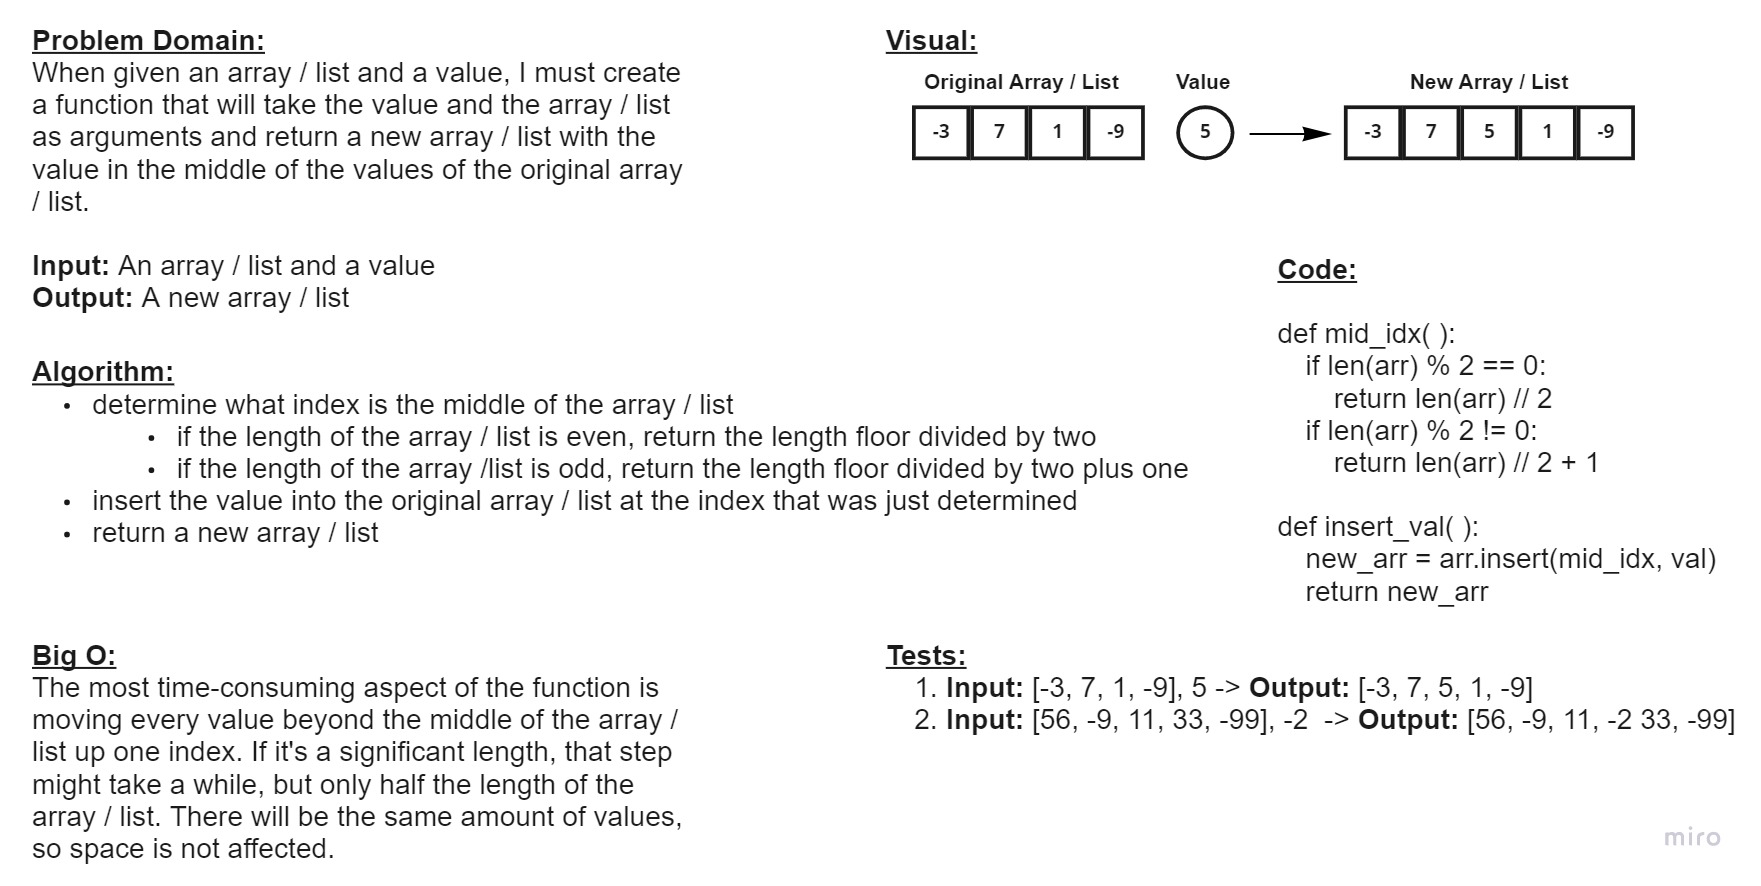
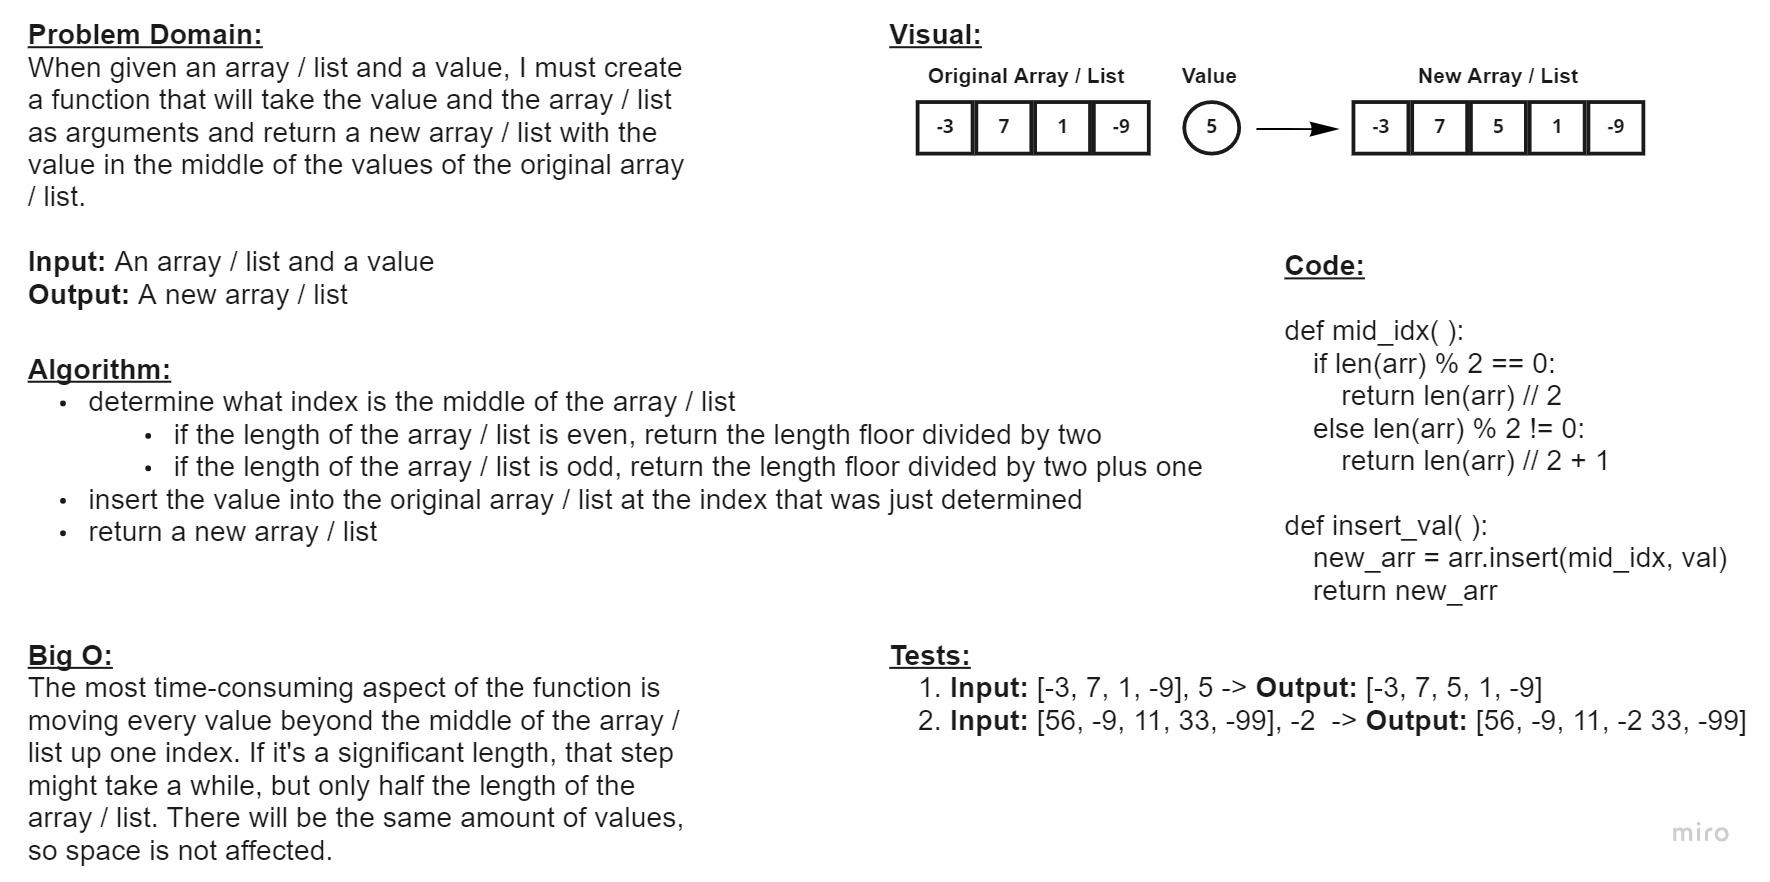
Fixing some formatting stuff and reuploading a whiteboard image.

diff --git a/python/docs/array_insert_shift/README.md b/python/docs/array_insert_shift/README.md
@@ -7,6 +7,4 @@
 ## Approach & Efficiency
 * I decided to find the middle index of the original array / list by first determining if its length was an odd or even number. If it was an odd number, I had to add one to make it work with the new array / list. Then I inserted the value into the original array / list using the number I previously determined as the index the value will be inserted at.
 
-<br/>
-
-The Big O time will depend on the size of the array / list. It could take long, but it is only half the length of the array / list, since each value after the middle index needs to be moved up one index. The space will not increase because the number of values are the same before and after.
+* The Big O time will depend on the size of the array / list. It could take long, but it is only half the length of the array / list, since each value after the middle index needs to be moved up one index. The space will not increase because the number of values are the same before and after.
